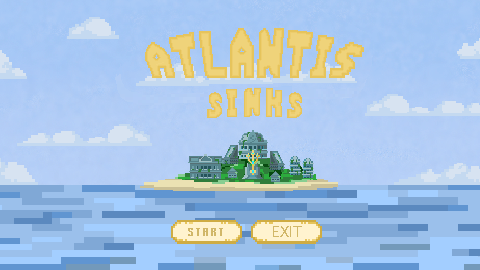
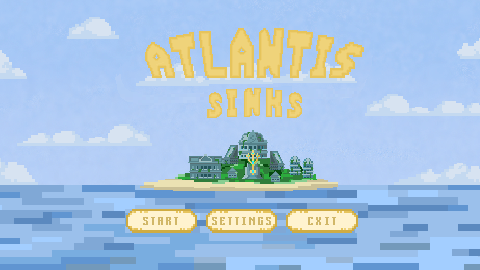
Modified and added the new design of main menu, added the settings button back along with a proper exit button.

Changed region(s): [[0.0, 0.7704, 0.8438, 1.0], [0.8125, 0.8889, 0.875, 0.9185]]

diff --git a/source/core/src/main/com/deco2800/game/components/mainmenu/MainMenuDisplayProMax.java b/source/core/src/main/com/deco2800/game/components/mainmenu/MainMenuDisplayProMax.java
@@ -29,6 +29,7 @@ public class MainMenuDisplayProMax extends UIComponent {
     private TextureRegionDrawable buttonDrawable;
     private ImageButton startButton;
     private ImageButton exitButton;
+    private ImageButton settingsButton;
 
 
     private static final float Z_INDEX = 2f;
@@ -48,7 +49,7 @@ public class MainMenuDisplayProMax extends UIComponent {
                 new Image(
                         ServiceLocator.getResourceService()
                                 .getAsset(
-                                        "images/Crafting-assets-sprint1/screens/atlantis sinks main menu.png",
+                                        "images/Crafting-assets-sprint1/screens/substitute main menu by Rey.png",
                                         Texture.class));
         mainMenu.setWidth(Gdx.graphics.getWidth());
         mainMenu.setHeight(Gdx.graphics.getHeight());
@@ -63,8 +64,8 @@ public class MainMenuDisplayProMax extends UIComponent {
         buttonDrawable = new TextureRegionDrawable(buttonTextureRegion);
         startButton = new ImageButton(buttonDrawable);
         startButton.setSize(290, 170);
-        startButton.setPosition(Gdx.graphics.getWidth()/2 - 280,
-                Gdx.graphics.getHeight()/2 - 450);
+        startButton.setPosition(Gdx.graphics.getWidth()/2 - 461,
+                Gdx.graphics.getHeight()/2 - 365);
         startButton.addListener(new ChangeListener() {
             @Override
             public void changed(ChangeEvent event, Actor actor) {
@@ -79,10 +80,28 @@ public class MainMenuDisplayProMax extends UIComponent {
                 ("images/crafting_assets_sprint2/transparent-texture-buttonClick.png"));
         buttonTextureRegion = new TextureRegion(buttonTexture);
         buttonDrawable = new TextureRegionDrawable(buttonTextureRegion);
+        settingsButton = new ImageButton(buttonDrawable);
+        settingsButton.setSize(290, 170);
+        settingsButton.setPosition(Gdx.graphics.getWidth()/2 - 146,
+                Gdx.graphics.getHeight()/2 - 365);
+        settingsButton.addListener(new ChangeListener() {
+            @Override
+            public void changed(ChangeEvent event, Actor actor) {
+                logger.debug("Settings button clicked...");
+                entity.getEvents().trigger("settings");
+            }
+        });
+        menuGroup.addActor(settingsButton);
+        stage.addActor(menuGroup);
+
+        buttonTexture = new Texture(Gdx.files.internal
+                ("images/crafting_assets_sprint2/transparent-texture-buttonClick.png"));
+        buttonTextureRegion = new TextureRegion(buttonTexture);
+        buttonDrawable = new TextureRegionDrawable(buttonTextureRegion);
         exitButton = new ImageButton(buttonDrawable);
         exitButton.setSize(290, 170);
-        exitButton.setPosition(Gdx.graphics.getWidth()/2 + 40,
-                Gdx.graphics.getHeight()/2 - 450);
+        exitButton.setPosition(Gdx.graphics.getWidth()/2 + 185,
+                Gdx.graphics.getHeight()/2 - 365);
         exitButton.addListener(new ChangeListener() {
             @Override
             public void changed(ChangeEvent event, Actor actor) {

diff --git a/source/core/src/main/com/deco2800/game/screens/MainMenuScreen.java b/source/core/src/main/com/deco2800/game/screens/MainMenuScreen.java
@@ -28,7 +28,7 @@ public class MainMenuScreen extends ScreenAdapter {
   private static final Logger logger = LoggerFactory.getLogger(MainMenuScreen.class);
   private final GdxGame game;
   private final Renderer renderer;
-  private static final String[] mainMenuTextures = {"images/Crafting-assets-sprint1/screens/atlantis sinks main menu.png"};
+  private static final String[] mainMenuTextures = {"images/Crafting-assets-sprint1/screens/substitute main menu by Rey.png"};
   private static final String backgroundMusic = "sounds/MenuSong-Overcast.mp3";
   private static final String[] mainMenuMusic = {backgroundMusic};
 
